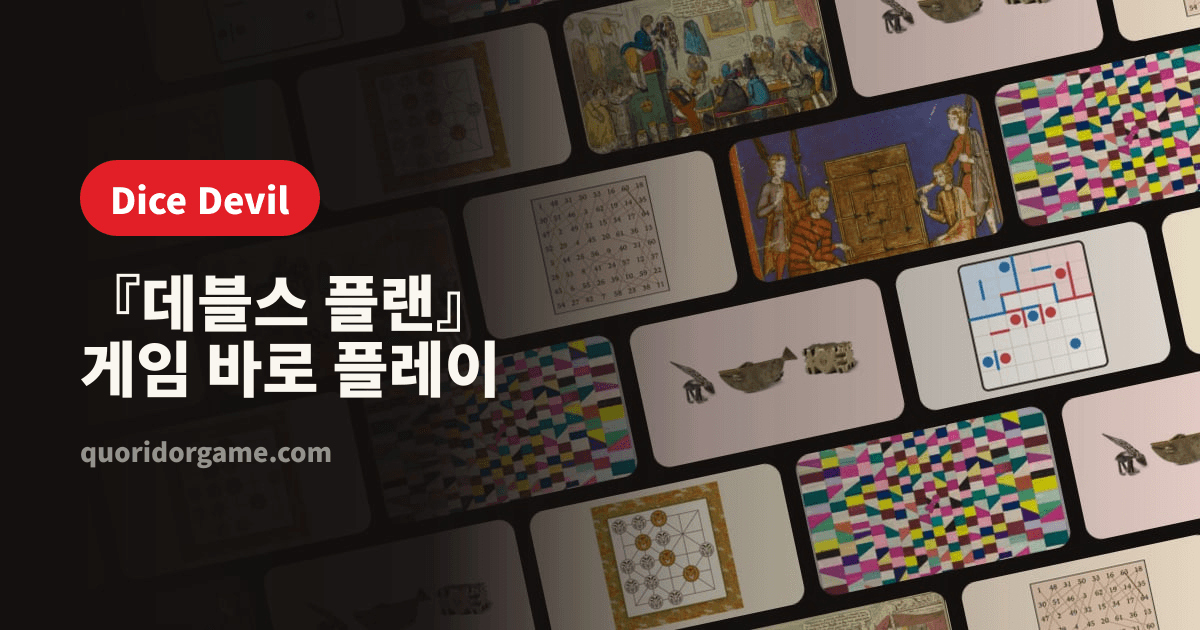
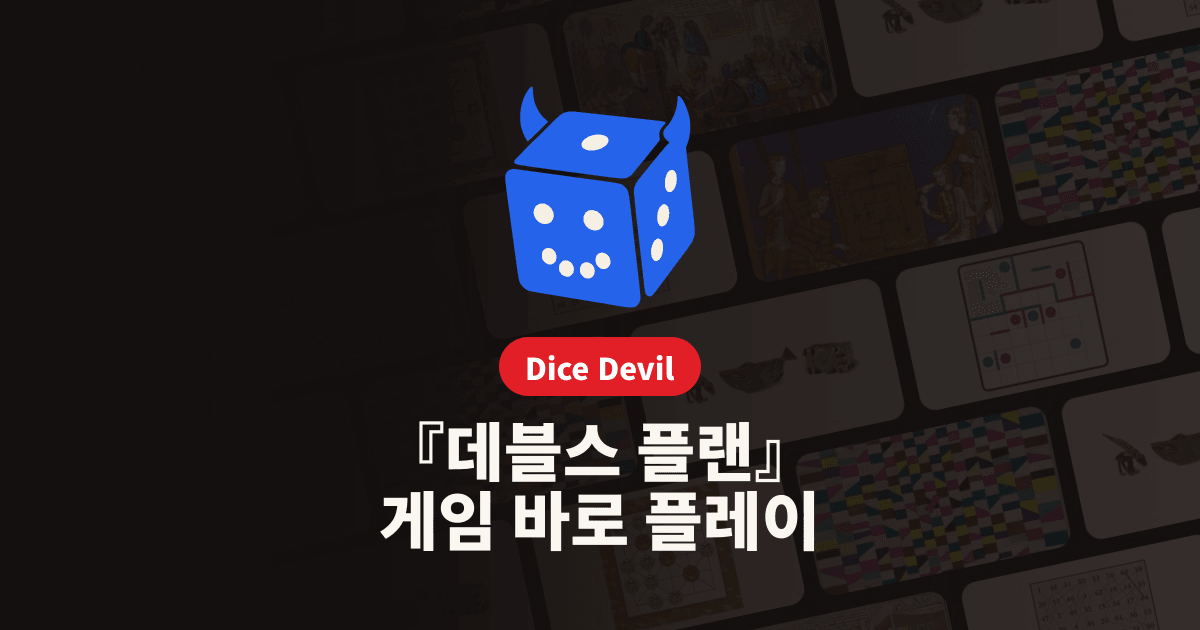
fix(seo): 平台首頁的縮圖改成骰子惡魔：JSON-LD 代表圖三種比例、分享圖置中、robots 擋九子棋古畫
docs/platform-thumbnail.md（大腦筋 11/2）：搜「WALL GO」時平台首頁的縮圖是九子棋的古畫。
- JSON-LD：CollectionPage 的 primaryImageOfPage 換成 cover-16x9，image 給 1:1、4:3、16:9 三張（Zach 選骰子惡魔）
- og:image：骰子惡魔置中、標題在下，卡片牆壓暗當底紋，裁成正方形也是骰子惡魔（季目錄共用同一張）
- robots.txt：只對 Googlebot-Image 擋 /games/nine-mens-morris/libro.webp

Claude-Session: https://claude.ai/code/session_014xmu4NJqhaE3mUfTMmWSRQ

diff --git a/app/i18n/jsonld.ts b/app/i18n/jsonld.ts
@@ -39,6 +39,17 @@ const SITE = process.env.SITE_URL || 'https://quoridorgame.com';
  * 但我們沒有真實評分，編一個出來就是偽造評價 —— 違反規範，也不該做。
  */
 
+/**
+ * 平台首頁的代表圖：骰子惡魔置中、深色底，三種比例（scripts/og-art/brand-covers.mjs 產生，六個語系共用）。
+ * 11/2 Zach 搜「WALL GO」，縮圖是頁面上九子棋的古畫 —— Google 沒被告知代表圖時，從頁面上的 img 挑最像照片的那張
+ *（docs/platform-thumbnail.md；Zach 從骰子惡魔、Wall Go 棋盤兩稿挑了骰子惡魔）。
+ */
+const BRAND_COVERS = [
+  { file: 'cover-1x1.png', width: 1200, height: 1200 },
+  { file: 'cover-4x3.png', width: 1600, height: 1200 },
+  { file: 'cover-16x9.png', width: 1920, height: 1080 },
+].map(({ file, ...size }) => ({ '@type': 'ImageObject', url: `${SITE}/brand/${file}`, ...size }));
+
 /** platform＝平台首頁（/），其餘是 Wall Go 的頁面（/wall-go/…） */
 type PageKind = 'platform' | 'home' | 'rules' | 'solo';
 
@@ -154,7 +165,9 @@ export function pageGraph(locale: Locale, kind: PageKind) {
           isPartOf: { '@id': id('website') },
           about: { '@id': id('series') },
           hasPart: { '@id': id('game') },
-          primaryImageOfPage: { '@type': 'ImageObject', url: ogImageUrl(locale, '/'), ...OG_SIZE },
+          // CollectionPage 是 WebPage 的子型別。代表圖用 16:9 那張，image 三種比例都給（分享圖另外是 og:image）
+          primaryImageOfPage: BRAND_COVERS[2],
+          image: BRAND_COVERS,
           inLanguage: locale,
         },
       ],

diff --git a/tests/i18n/jsonld.test.ts b/tests/i18n/jsonld.test.ts
@@ -110,3 +110,19 @@ describe('JSON-LD 圖的完整性', () => {
     }
   });
 });
+
+describe('平台首頁的代表圖', () => {
+  it.each(LOCALES)('%s：三種比例都在、尺寸對得上檔案，代表圖是 16:9 那張', async (locale) => {
+    const sharp = (await import('sharp')).default;
+    const g = pageGraph(locale, 'platform') as { '@graph': Node[] };
+    const page = g['@graph'].find((n) => n['@type'] === 'CollectionPage')!;
+    const images = page.image as { url: string; width: number; height: number }[];
+    expect(images.map((i) => i.width / i.height)).toEqual([1, 4 / 3, 16 / 9]);
+    expect(page.primaryImageOfPage).toEqual(images[2]);
+    for (const img of images) {
+      expect(img.width).toBeGreaterThanOrEqual(1200);
+      const meta = await sharp(`public${new URL(img.url).pathname}`).metadata();
+      expect([meta.width, meta.height]).toEqual([img.width, img.height]);
+    }
+  });
+});

diff --git a/app/robots.ts b/app/robots.ts
@@ -6,10 +6,14 @@ export const revalidate = false;
 
 export default function robots(): MetadataRoute.Robots {
   return {
-    rules: {
-      userAgent: '*',
-      allow: '/',
-    },
+    rules: [
+      { userAgent: '*', allow: '/' },
+      // 九子棋那張古畫（《遊戲之書》插圖）不給 Google 圖片當縮圖：平台首頁的卡片上也有它，
+      // 搜「WALL GO」時被挑成平台首頁的縮圖（11/2，docs/platform-thumbnail.md）。只擋這一張；
+      // 九子棋頁的分享圖是另外產的 public/og/nine-mens-morris-*.png，不受影響。
+      // 有了自己的一組，Googlebot-Image 就不看 * 那組 —— allow 要再寫一次
+      { userAgent: 'Googlebot-Image', allow: '/', disallow: '/games/nine-mens-morris/libro.webp' },
+    ],
     sitemap: `${process.env.SITE_URL}/sitemap.xml`,
   }
 }

diff --git a/docs/platform-thumbnail.md b/docs/platform-thumbnail.md
@@ -1,0 +1,33 @@
+# 平台首頁在 Google 的縮圖
+
+大腦筋 11/2 寫。Zach 11/2 搜「WALL GO」：我們排第 1，AI 摘要也引用我們，但縮圖是**九子棋的中世紀古畫**（`/games/nine-mens-morris/libro.webp`）。Zach 說「為什麼是這張縮圖」，決定改。
+
+## 現況
+
+- Google 顯示的還是 `/` 的舊標題（牆壁圍棋 Wall Go 線上免費玩），但縮圖已經是平台首頁的圖。舊標題配新圖，看起來跟 Wall Go 無關。
+- 平台首頁 og:image 是 `/og/platform-zh-TW.png`：很多遊戲的圖拼在一起，裁成正方形只剩中間一塊。
+- 頁面上的 img 有 wall-go hero.svg、bagh-chal hero.webp、knights-tour hero-wide.webp、nine-mens-morris libro.webp…。古畫顏色最重、最像照片，Google 挑了它。
+- JSON-LD 有 Organization、WebSite、TVSeries，沒有指定代表圖。
+- robots.txt 全部 Allow。
+- `/wall-go/` 的事 Zach 已經在 Search Console 要求建立索引了，那頁的 og:image 是 Wall Go 棋盤，不用動。
+
+## 要改的
+
+1. **JSON-LD 指定代表圖**（六個語系的平台首頁）：
+   - 加 WebPage，帶 `primaryImageOfPage`（ImageObject），`image` 給三種比例：1:1、4:3、16:9，每張至少 1200px 寬（照 Google 的圖片建議）。
+   - 圖用「骰子惡魔」logo 或 Wall Go 棋盤放正中間，背景單純。你們選，跟 Zach 確認過再定。
+2. **og:image 改成裁切不會壞的版本**：主體放正中間，裁成正方形、4:3 都還認得出是骰子惡魔。季目錄頁如果也用拼貼圖，一起看。
+3. **擋掉古畫給 Google 圖片當縮圖**：
+   - robots.txt 加 `User-agent: Googlebot-Image` 並 `Disallow: /games/nine-mens-morris/libro.webp`。只擋這一張。
+   - 九子棋頁會不會因此沒有縮圖：九子棋頁的 og:image 不是這張就沒差；是的話，九子棋頁也要換一張自己的代表圖。
+
+## 規則
+
+- 只動代表圖、分享圖、robots.txt、JSON-LD。網址、title、畫面不動。
+- 開分支、做完跑檢查、**打版前先問 Zach**，這份 docs 一起 commit。
+- 可以跟 page_type 那版（fix/ga-page-type）一起打。
+
+## 驗收
+
+- 上線當下：大腦筋看六個語系平台首頁的 JSON-LD 有 primaryImageOfPage、og:image 換了、robots.txt 有那一行。用 Google 的「複合式搜尋結果測試」看得到 WebPage 和圖片。
+- 2～3 週內（11/23 前後）：搜「骰子惡魔」「魔鬼的計謀 遊戲」時，縮圖不是古畫。縮圖最後是 Google 選的，不保證。

diff --git a/CLAUDE.md b/CLAUDE.md
@@ -301,6 +301,8 @@ nudge { by, at }          最近一次「催一下」
   改了標題相關文案（`metaTitle`、`titleLine1/2`、`showName`）要跑 `npm run og:build`，
   CI 有 `og:check` 擋著（比對表一頁一份：`public/og/copy/<頁>.json`）。`npm run og:build -- <頁>…` 只重建那幾頁 —— 各款的分支只重建自己的，合併才不會撞。
   2026-10-25：平台首頁是**七款卡片斜排的一面牆**（Zach：「可以放多個遊戲集結的感覺」；背景 `scripts/og-art/platform.jpg` 由同資料夾的 `collage.mjs` 在七款都合進來的 beta 上產生）、
+  **11/2 改成置中**（docs/platform-thumbnail.md：Google 把平台首頁的縮圖裁成正方形、還挑到九子棋的古畫）：骰子惡魔在正中、膠囊與標題在它底下，卡片牆壓暗只當底紋（`og-design.mjs` 的 `centered`），裁成 1:1、4:3 都還是骰子惡魔。
+  平台首頁的 JSON-LD 另外指定代表圖 `public/brand/cover-{1x1,4x3,16x9}.png`（骰子惡魔＋深色底、不放字，`scripts/og-art/brand-covers.mjs` 產生）；`robots.ts` 只對 Googlebot-Image 擋 `libro.webp` 那一張。
   尼泊爾虎棋換成虎棋自己的顏色＋平台那張真棋盤方圖（原本是舊版棋盤的 key-art.svg）、第二批五款各一份 `scripts/og-games/<id>.mjs`（格式見那裡的 README）。
   有照片的圖轉成 256 色 PNG：直接輸出 400KB–1MB，WhatsApp 超過約 300KB 就不顯示預覽。
   **不要改用 Next 的 `opengraph-image.tsx`** —— 那個慣例產出的檔案沒有副檔名
